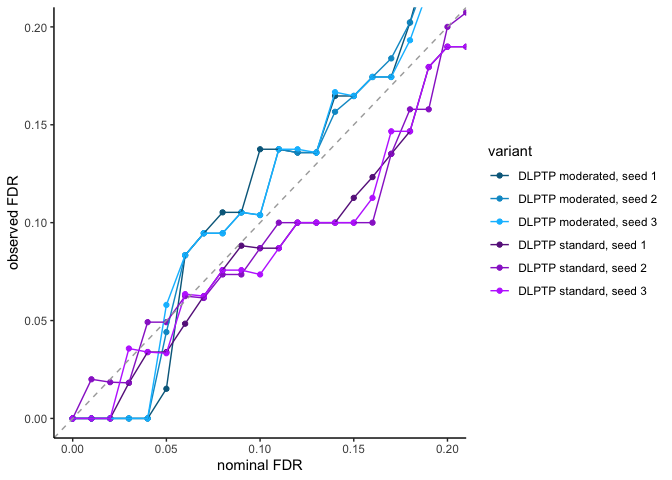
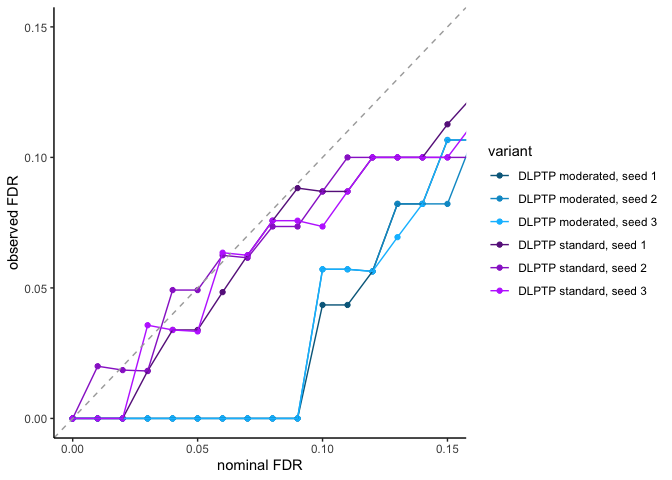
updated benchmark Rmd

diff --git a/Benchmark_on_synthetic_dataset/benchmark.md b/Benchmark_on_synthetic_dataset/benchmark.md
@@ -1,6 +1,6 @@
 Benchmark on synthetic dataset
 ================
-18 August, 2020
+30 September, 2020
 
 # Step-by-step walk through the `TPP2D` analysis
 
@@ -678,97 +678,11 @@ pr_b100_3_byMsExp <- computePrecisionRecall(
 
 pr_b100_1_byMsExp_mod <- computePrecisionRecall(
     fdr_df = sim_fdr_df_s1_b100_byMsExp_mod, ntp = 80)
-```
-
-    ## Warning in min(rank[FDR > alpha], na.rm = TRUE): no non-missing arguments to
-    ## min; returning Inf
-    
-    ## Warning in min(rank[FDR > alpha], na.rm = TRUE): no non-missing arguments to
-    ## min; returning Inf
-    
-    ## Warning in min(rank[FDR > alpha], na.rm = TRUE): no non-missing arguments to
-    ## min; returning Inf
-    
-    ## Warning in min(rank[FDR > alpha], na.rm = TRUE): no non-missing arguments to
-    ## min; returning Inf
-    
-    ## Warning in min(rank[FDR > alpha], na.rm = TRUE): no non-missing arguments to
-    ## min; returning Inf
-    
-    ## Warning in min(rank[FDR > alpha], na.rm = TRUE): no non-missing arguments to
-    ## min; returning Inf
-    
-    ## Warning in min(rank[FDR > alpha], na.rm = TRUE): no non-missing arguments to
-    ## min; returning Inf
-    
-    ## Warning in min(rank[FDR > alpha], na.rm = TRUE): no non-missing arguments to
-    ## min; returning Inf
-    
-    ## Warning in min(rank[FDR > alpha], na.rm = TRUE): no non-missing arguments to
-    ## min; returning Inf
-    
-    ## Warning in min(rank[FDR > alpha], na.rm = TRUE): no non-missing arguments to
-    ## min; returning Inf
-
-``` r
 pr_b100_2_byMsExp_mod <- computePrecisionRecall(
     fdr_df = sim_fdr_df_s2_b100_byMsExp_mod, ntp = 80)
-```
-
-    ## Warning in min(rank[FDR > alpha], na.rm = TRUE): no non-missing arguments to
-    ## min; returning Inf
-    
-    ## Warning in min(rank[FDR > alpha], na.rm = TRUE): no non-missing arguments to
-    ## min; returning Inf
-    
-    ## Warning in min(rank[FDR > alpha], na.rm = TRUE): no non-missing arguments to
-    ## min; returning Inf
-    
-    ## Warning in min(rank[FDR > alpha], na.rm = TRUE): no non-missing arguments to
-    ## min; returning Inf
-    
-    ## Warning in min(rank[FDR > alpha], na.rm = TRUE): no non-missing arguments to
-    ## min; returning Inf
-    
-    ## Warning in min(rank[FDR > alpha], na.rm = TRUE): no non-missing arguments to
-    ## min; returning Inf
-    
-    ## Warning in min(rank[FDR > alpha], na.rm = TRUE): no non-missing arguments to
-    ## min; returning Inf
-    
-    ## Warning in min(rank[FDR > alpha], na.rm = TRUE): no non-missing arguments to
-    ## min; returning Inf
-
-``` r
 pr_b100_3_byMsExp_mod <- computePrecisionRecall(
     fdr_df = sim_fdr_df_s3_b100_byMsExp_mod, ntp = 80)
-```
 
-    ## Warning in min(rank[FDR > alpha], na.rm = TRUE): no non-missing arguments to
-    ## min; returning Inf
-    
-    ## Warning in min(rank[FDR > alpha], na.rm = TRUE): no non-missing arguments to
-    ## min; returning Inf
-    
-    ## Warning in min(rank[FDR > alpha], na.rm = TRUE): no non-missing arguments to
-    ## min; returning Inf
-    
-    ## Warning in min(rank[FDR > alpha], na.rm = TRUE): no non-missing arguments to
-    ## min; returning Inf
-    
-    ## Warning in min(rank[FDR > alpha], na.rm = TRUE): no non-missing arguments to
-    ## min; returning Inf
-    
-    ## Warning in min(rank[FDR > alpha], na.rm = TRUE): no non-missing arguments to
-    ## min; returning Inf
-    
-    ## Warning in min(rank[FDR > alpha], na.rm = TRUE): no non-missing arguments to
-    ## min; returning Inf
-    
-    ## Warning in min(rank[FDR > alpha], na.rm = TRUE): no non-missing arguments to
-    ## min; returning Inf
-
-``` r
 all_alpha_fdr_df <- bind_rows(
   pr_b100_1_byMsExp %>% 
      mutate(variant = "DLPTP standard, seed 1"), 
@@ -797,8 +711,8 @@ ggplot(all_alpha_fdr_df, aes(alpha, mean_fdr)) +
   geom_abline(slope = 1, 
               color = "darkgray",
               linetype = "dashed") +
-  coord_cartesian(xlim = c(0, 0.2),
-                  ylim = c(0, 0.2)) +
+  coord_cartesian(xlim = c(0, 0.15),
+                  ylim = c(0, 0.15)) +
   scale_color_manual(
     "variant",
     values = c("deepskyblue4",
@@ -893,7 +807,7 @@ sessionInfo()
     ##  [1] TPP_3.17.0           magrittr_1.5         org.Hs.eg.db_3.11.4 
     ##  [4] AnnotationDbi_1.50.0 IRanges_2.22.2       S4Vectors_0.26.1    
     ##  [7] Biobase_2.48.0       BiocGenerics_0.34.0  readxl_1.3.1        
-    ## [10] ggplot2_3.3.2        tidyr_1.1.0          TPP2D_1.5.7         
+    ## [10] ggplot2_3.3.2        tidyr_1.1.0          TPP2D_1.5.10        
     ## [13] dplyr_1.0.0         
     ## 
     ## loaded via a namespace (and not attached):
@@ -902,7 +816,7 @@ sessionInfo()
     ##  [7] cellranger_1.1.0     yaml_2.2.1           backports_1.1.7     
     ## [10] lattice_0.20-41      pillar_1.4.4         RSQLite_2.2.0       
     ## [13] glue_1.4.1           limma_3.44.1         digest_0.6.25       
-    ## [16] RColorBrewer_1.1-2   colorspace_1.4-1     htmltools_0.4.0     
+    ## [16] RColorBrewer_1.1-2   colorspace_1.4-1     htmltools_0.5.0     
     ## [19] plyr_1.8.6           pkgconfig_2.0.3      broom_0.5.6         
     ## [22] purrr_0.3.4          scales_1.1.1         VennDiagram_1.6.20  
     ## [25] openxlsx_4.1.5       BiocParallel_1.22.0  tibble_3.0.1        
